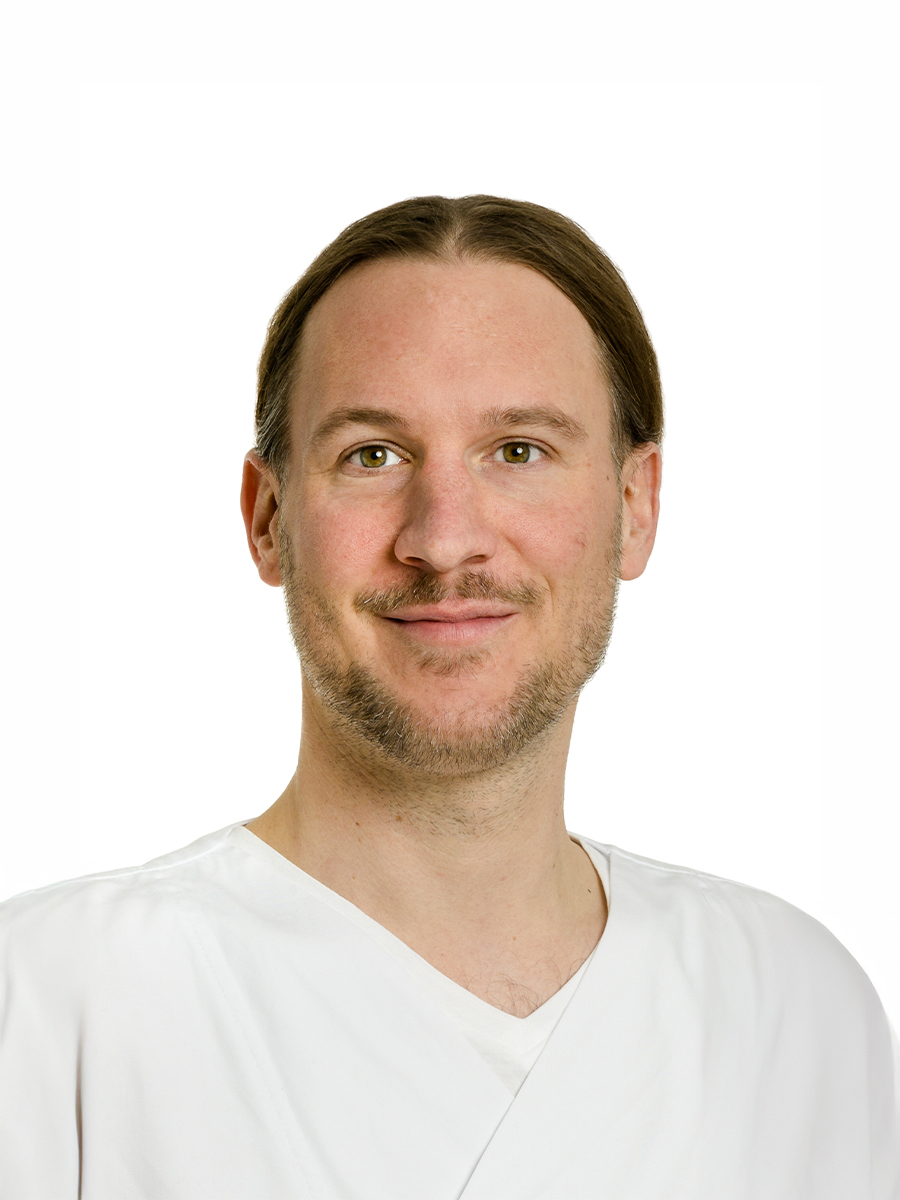
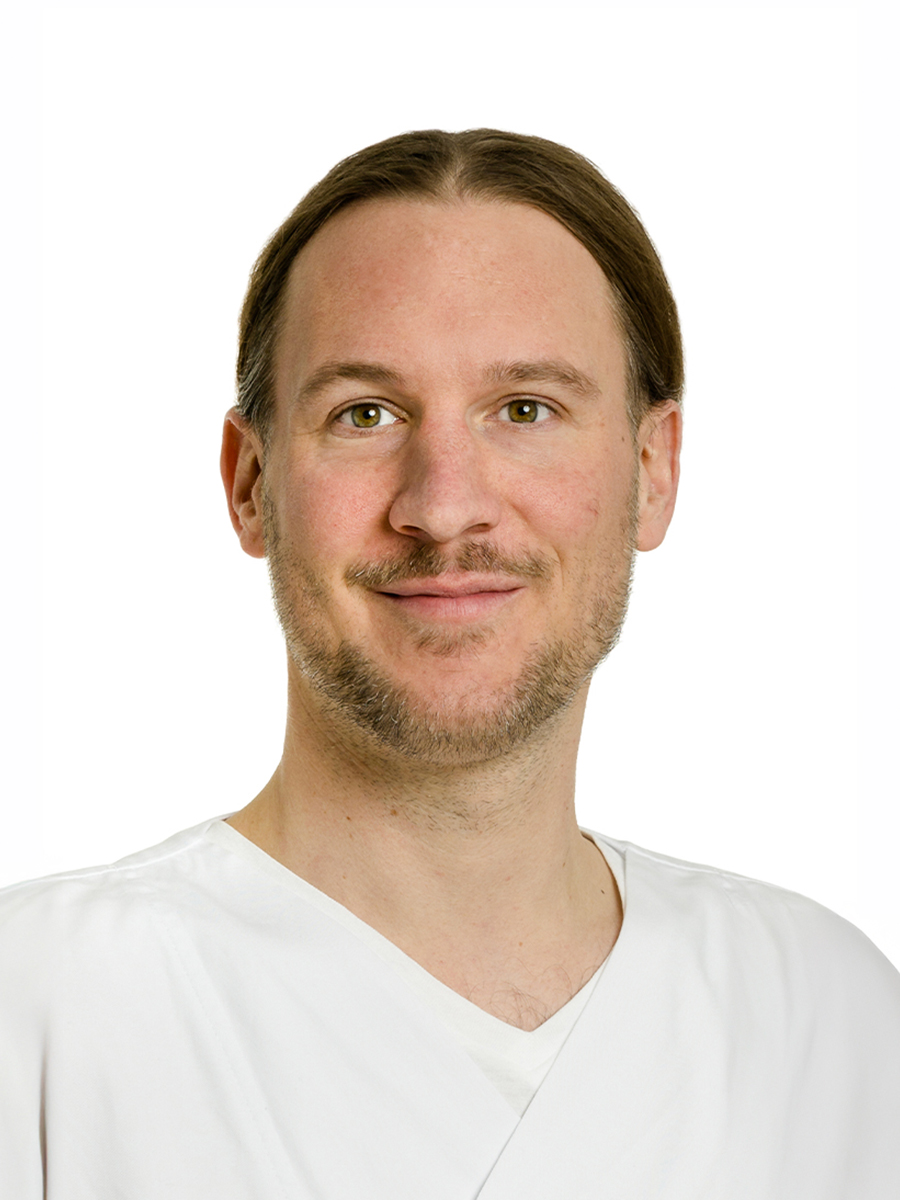
Finalize hero, navigation, speakers carousel and layout refinements

diff --git a/index.html b/index.html
@@ -738,7 +738,7 @@ width: 100%;
 
           <article class="speaker-card">
             <div class="speaker-photo">
-              <img src="assets/speakers/michaelstickel.jpeg" alt="Speaker 7">
+              <img src="assets/speakers/michaelstickel2.jpg" alt="Speaker 7">
             </div>
             <h3 class="speaker-name">Michael Stickel</h3>
             <p class="speaker-role">Chief Medical Information Officer</p>
